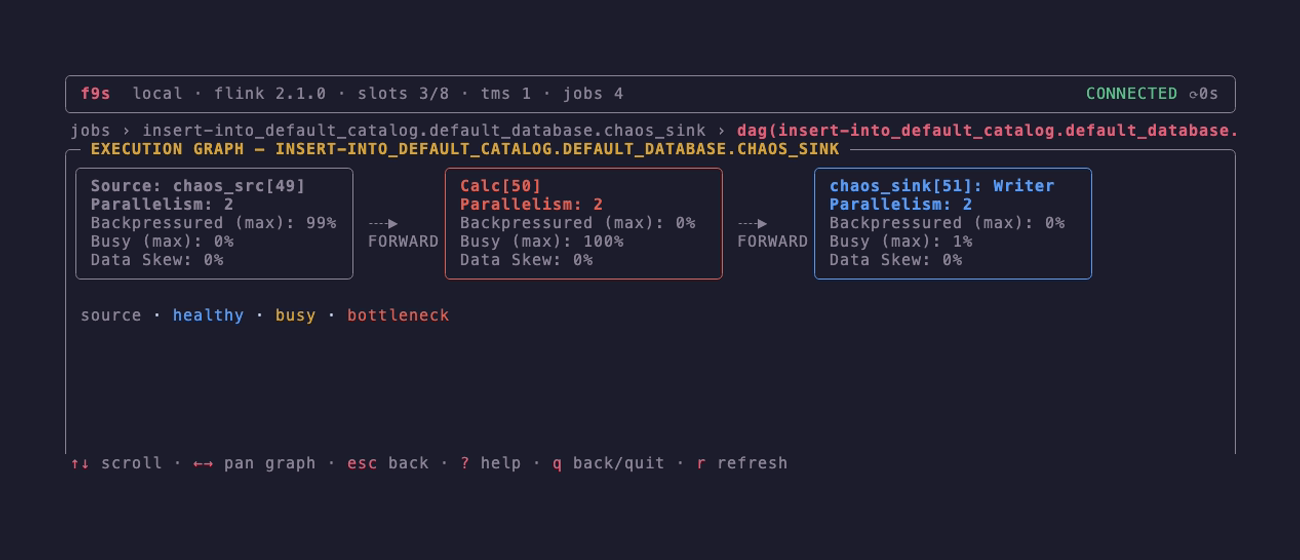
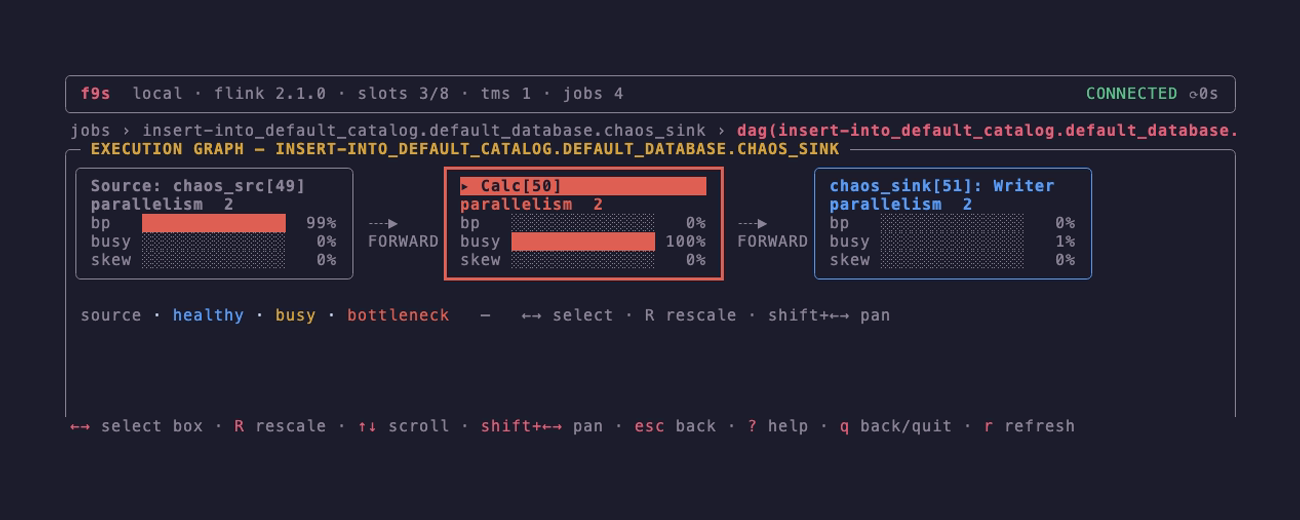
feat(ui): selectable DAG boxes with gauges + inline rescale
Make the boxed execution graph interactive and more modern.

- modern boxes: the plain "X%" lines become severity-colored gauge bars
  (bp / busy / skew via styles.Gauge), with a bold health-colored title and
  prominent parallelism. Kept to the same 5-line body so connectors align.
- select a box with ←→ (tab/shift+tab too); the selected box gets a thick
  border + a ▸ reverse-video title bar, and the view auto-pans to keep it on
  screen. shift+←→ still pans manually. Selection is tracked by vertex id, so
  live metric refreshes never move it.
- press R on the selected box to change its parallelism — emits the existing
  RescaleMsg, reusing the app's rescale modal → adaptive-scheduler check →
  SetVertexParallelism (FLIP-291) with zero app-side changes; gated by
  readOnlyGuard.
- refreshed the DAG screenshot; updated the g keybinding docs.

diff --git a/internal/views/dagview.go b/internal/views/dagview.go
@@ -45,17 +45,19 @@ type dagStatMsg struct {
 // busy/backpressure state on every node — topology the Web UI shows only
 // as an SVG you can't grep.
 type DagView struct {
-	deps  Deps
-	jid   string
-	name  string
-	plan  model.Plan
-	job   model.Job
-	rates map[string]edgeRate
-	stats map[string]dagStat
-	xOff  int // horizontal scroll offset for the boxed layout
-	vp    viewport.Model
-	ready bool
-	err   string
+	deps   Deps
+	jid    string
+	name   string
+	plan   model.Plan
+	job    model.Job
+	rates  map[string]edgeRate
+	stats  map[string]dagStat
+	xOff   int      // horizontal scroll offset for the boxed layout
+	selVID string   // selected vertex id (by id, so refreshes don't move it)
+	order  []string // box layout order (column-major), for ←→ selection
+	vp     viewport.Model
+	ready  bool
+	err    string
 }
 
 // NewDagView builds the DAG view for one job.
@@ -67,8 +69,10 @@ func (d *DagView) Title() string   { return "dag(" + d.name + ")" }
 func (d *DagView) Filtering() bool { return false }
 func (d *DagView) Bindings() []key.Binding {
 	return []key.Binding{
+		binding("left", "←→", "select box"),
+		binding("R", "R", "rescale"),
 		binding("up", "↑↓", "scroll"),
-		binding("left", "←→", "pan graph"),
+		binding("shift+left", "shift+←→", "pan"),
 		binding("esc", "esc", "back"),
 	}
 }
@@ -146,6 +150,9 @@ func (d *DagView) Update(msg tea.Msg) (Model, tea.Cmd) {
 		d.plan = msg.plan
 		d.job = msg.job
 		d.rates = msg.rates
+		if _, ok := d.nodeByID(d.selVID); !ok && len(d.plan.Nodes) > 0 {
+			d.selVID = topoOrder(d.plan.Nodes)[0].ID // default/repair selection
+		}
 		if d.ready {
 			d.vp.SetContent(d.render(d.vp.Width))
 		}
@@ -158,23 +165,43 @@ func (d *DagView) Update(msg tea.Msg) (Model, tea.Cmd) {
 		return d, nil
 	case tea.KeyMsg:
 		switch msg.String() {
-		case "left":
-			if d.xOff > 0 {
+		case "left", "right", "tab", "shift+tab":
+			delta := 1
+			if msg.String() == "left" || msg.String() == "shift+tab" {
+				delta = -1
+			}
+			d.moveSel(delta)
+			d.autoPan()
+			if d.ready {
+				d.vp.SetContent(d.render(d.vp.Width))
+			}
+			return d, nil
+		case "shift+left", "shift+right":
+			if msg.String() == "shift+left" {
 				d.xOff -= 8
-				if d.xOff < 0 {
-					d.xOff = 0
-				}
+			} else {
+				d.xOff += 8
+			}
+			if d.xOff < 0 {
+				d.xOff = 0
 			}
 			if d.ready {
 				d.vp.SetContent(d.render(d.vp.Width))
 			}
 			return d, nil
-		case "right":
-			d.xOff += 8
-			if d.ready {
-				d.vp.SetContent(d.render(d.vp.Width))
+		case "R":
+			if g := readOnlyGuard(d.deps); g != nil {
+				return d, g
 			}
-			return d, nil
+			n, ok := d.nodeByID(d.selVID)
+			if !ok {
+				return d, nil
+			}
+			label, par := d.nodeLabel(n)
+			jid, jobName, vid := d.jid, d.name, n.ID
+			return d, func() tea.Msg {
+				return RescaleMsg{JID: jid, Job: jobName, VID: vid, Vertex: label, Current: par}
+			}
 		}
 		if d.ready {
 			var cmd tea.Cmd
@@ -183,6 +210,54 @@ func (d *DagView) Update(msg tea.Msg) (Model, tea.Cmd) {
 		}
 	}
 	return d, nil
+}
+
+// moveSel shifts the selection along the column-major box order.
+func (d *DagView) moveSel(delta int) {
+	if len(d.order) == 0 {
+		return
+	}
+	i := 0
+	for k, id := range d.order {
+		if id == d.selVID {
+			i = k
+			break
+		}
+	}
+	i += delta
+	if i < 0 {
+		i = 0
+	}
+	if i >= len(d.order) {
+		i = len(d.order) - 1
+	}
+	d.selVID = d.order[i]
+}
+
+// autoPan scrolls horizontally so the selected box stays on screen.
+func (d *DagView) autoPan() {
+	const pitch, boxW = boxInner + 2 + 5, boxInner + 2 // column pitch, box width
+	col := rank(d.plan.Nodes)[d.selVID]
+	left, right := col*pitch, col*pitch+boxW
+	iw := d.vp.Width
+	if left < d.xOff {
+		d.xOff = left
+	} else if iw > 0 && right > d.xOff+iw {
+		d.xOff = right - iw
+	}
+	if d.xOff < 0 {
+		d.xOff = 0
+	}
+}
+
+// nodeByID finds a plan node by vertex id.
+func (d *DagView) nodeByID(id string) (model.PlanNode, bool) {
+	for _, n := range d.plan.Nodes {
+		if n.ID == id {
+			return n, true
+		}
+	}
+	return model.PlanNode{}, false
 }
 
 // topoOrder returns plan nodes in topological order (sources first), with a
@@ -385,36 +460,52 @@ func boxColor(h boxHealth) lipgloss.TerminalColor {
 	}
 }
 
-// box renders one operator as a color-bordered tile with its live metrics.
-func (d *DagView) box(n model.PlanNode, bw int) string {
+// gaugeLine renders "LABL ███░░ NN%" width-exact inside a box (gw+10 cells):
+// label(4)+space + gw bar + space + "NNN%"(4). A negative pct is unsampled.
+func gaugeLine(label string, pct, gw int, warnAt, critAt float64) string {
+	lab := styles.Dim().Render(fmt.Sprintf("%-4s ", label))
+	if pct < 0 {
+		return lab + styles.Dim().Render(strings.Repeat("·", gw)+"   —")
+	}
+	bar := styles.Gauge(float64(pct)/100, gw, warnAt, critAt)
+	return lab + bar + styles.Dim().Render(fmt.Sprintf(" %3d%%", pct))
+}
+
+// box renders one operator as a modern tile: a filled health-colored title
+// bar, the parallelism, and three severity gauge bars (backpressure/busy/skew).
+// A selected box gets a thick border, a ▸ marker, and a reversed title bar.
+func (d *DagView) box(n model.PlanNode, bw int, selected bool) string {
 	label, par := d.nodeLabel(n)
 	st := d.stats[n.ID]
 	col := boxColor(d.classify(n, st))
 	tw := bw - 2 // text area inside the padding
 
+	// title: bold health-colored text; the selected box gets a reverse-video
+	// full-width header bar + ▸ marker (readable on any theme, unlike a dim
+	// background fill).
+	marker := ""
 	titleStyle := lipgloss.NewStyle().Foreground(col).Bold(true)
-	bp := "Backpressured (max): —"
-	if st.bpMax >= 0 {
-		bp = fmt.Sprintf("Backpressured (max): %d%%", st.bpMax)
-	} else if st.level != "" {
-		bp = "Backpressured: " + strings.ToUpper(st.level)
+	if selected {
+		marker = "▸ "
+		titleStyle = titleStyle.Reverse(true).Width(tw)
 	}
-	bz := "Busy (max): —"
-	if st.busyMax >= 0 {
-		bz = fmt.Sprintf("Busy (max): %d%%", st.busyMax)
+	title := titleStyle.Render(truncate(marker+label, tw))
+	parLine := lipgloss.NewStyle().Foreground(col).Bold(true).Render(fmt.Sprintf("parallelism  %d", par))
+
+	body := title + "\n" +
+		parLine + "\n" +
+		gaugeLine("bp", st.bpMax, 14, 0.5, 0.8) + "\n" +
+		gaugeLine("busy", st.busyMax, 14, 0.5, 0.8) + "\n" +
+		gaugeLine("skew", st.skew, 14, 0.3, 0.6)
+
+	border := lipgloss.RoundedBorder()
+	bc := col
+	if selected {
+		border = lipgloss.ThickBorder() // ┏━┓ — obvious even without color
 	}
-	sk := "Data Skew: —"
-	if st.skew >= 0 {
-		sk = fmt.Sprintf("Data Skew: %d%%", st.skew)
-	}
-	body := titleStyle.Render(truncate(label, tw)) + "\n" +
-		titleStyle.Render(truncate(fmt.Sprintf("Parallelism: %d", par), tw)) + "\n" +
-		styles.Dim().Render(truncate(bp, tw)) + "\n" +
-		styles.Dim().Render(truncate(bz, tw)) + "\n" +
-		styles.Dim().Render(truncate(sk, tw))
 	return lipgloss.NewStyle().
-		Border(lipgloss.RoundedBorder()).
-		BorderForeground(col).
+		Border(border).
+		BorderForeground(bc).
 		Padding(0, 1).
 		Width(bw).
 		Render(body)
@@ -477,11 +568,13 @@ func (d *DagView) renderBoxes(iw int) string {
 		cols[r[n.ID]] = append(cols[r[n.ID]], n)
 	}
 
+	d.order = d.order[:0]
 	var seg []string
 	for ci, colNodes := range cols {
 		var boxes []string
 		for _, n := range colNodes {
-			boxes = append(boxes, d.box(n, boxInner))
+			d.order = append(d.order, n.ID)
+			boxes = append(boxes, d.box(n, boxInner, n.ID == d.selVID))
 		}
 		seg = append(seg, lipgloss.JoinVertical(lipgloss.Left, interleaveBlank(boxes)...))
 		if ci < len(cols)-1 {
@@ -509,13 +602,14 @@ func (d *DagView) renderBoxes(iw int) string {
 			lines[i] = ansi.Cut(ln, d.xOff, d.xOff+iw)
 		}
 		row = strings.Join(lines, "\n")
-		hint = "\n" + styles.Dim().Render(fmt.Sprintf(" ← → pan · showing cols %d–%d of %d", d.xOff, min(d.xOff+iw, full), full))
+		hint = "\n" + styles.Dim().Render(fmt.Sprintf(" showing cols %d–%d of %d", d.xOff, min(d.xOff+iw, full), full))
 	} else {
 		d.xOff = 0
 	}
-	legend := "\n" + styles.Dim().Render(" ") +
+	legend := "\n " +
 		styles.Dim().Render("source") + " · " + styles.BlueText().Render("healthy") + " · " +
-		styles.WarnText().Render("busy") + " · " + styles.ErrText().Render("bottleneck")
+		styles.WarnText().Render("busy") + " · " + styles.ErrText().Render("bottleneck") +
+		styles.Dim().Render("   —   ←→ select · R rescale · shift+←→ pan")
 	return row + hint + "\n" + legend
 }
 

diff --git a/README.md b/README.md
@@ -95,7 +95,7 @@ retrying with backoff until the cluster answers.
 | `A` | agentic investigate: the model drills deeper with read-only tools, every call shown |
 | `@` | ask AI: free-form chat about the job (or `:ask` cluster-wide) — starter questions, and it can propose actions you approve inline |
 | `b` | backpressure history sparklines (in job detail) |
-| `g` | execution graph as Flink-UI-style boxes — per-operator parallelism, backpressure/busy/skew, health-colored, `←→` to pan (in job detail) |
+| `g` | execution graph as Flink-UI-style boxes — per-operator parallelism, backpressure/busy/skew gauges, health-colored; `←→` selects a box, `R` rescales it (FLIP-291), `shift+←→` pans (in job detail) |
 | `t` | per-vertex subtask table: attempts, TaskManager, lifecycle durations; enter shows retained attempt history (in job detail) |
 | `O` | config resolution: the cluster→job→operator override chain per setting, with the winning layer marked (in job detail) |
 | `w` | watermark propagation debugger: per-vertex event-time lag, the first stalling vertex + why (job detail) |
